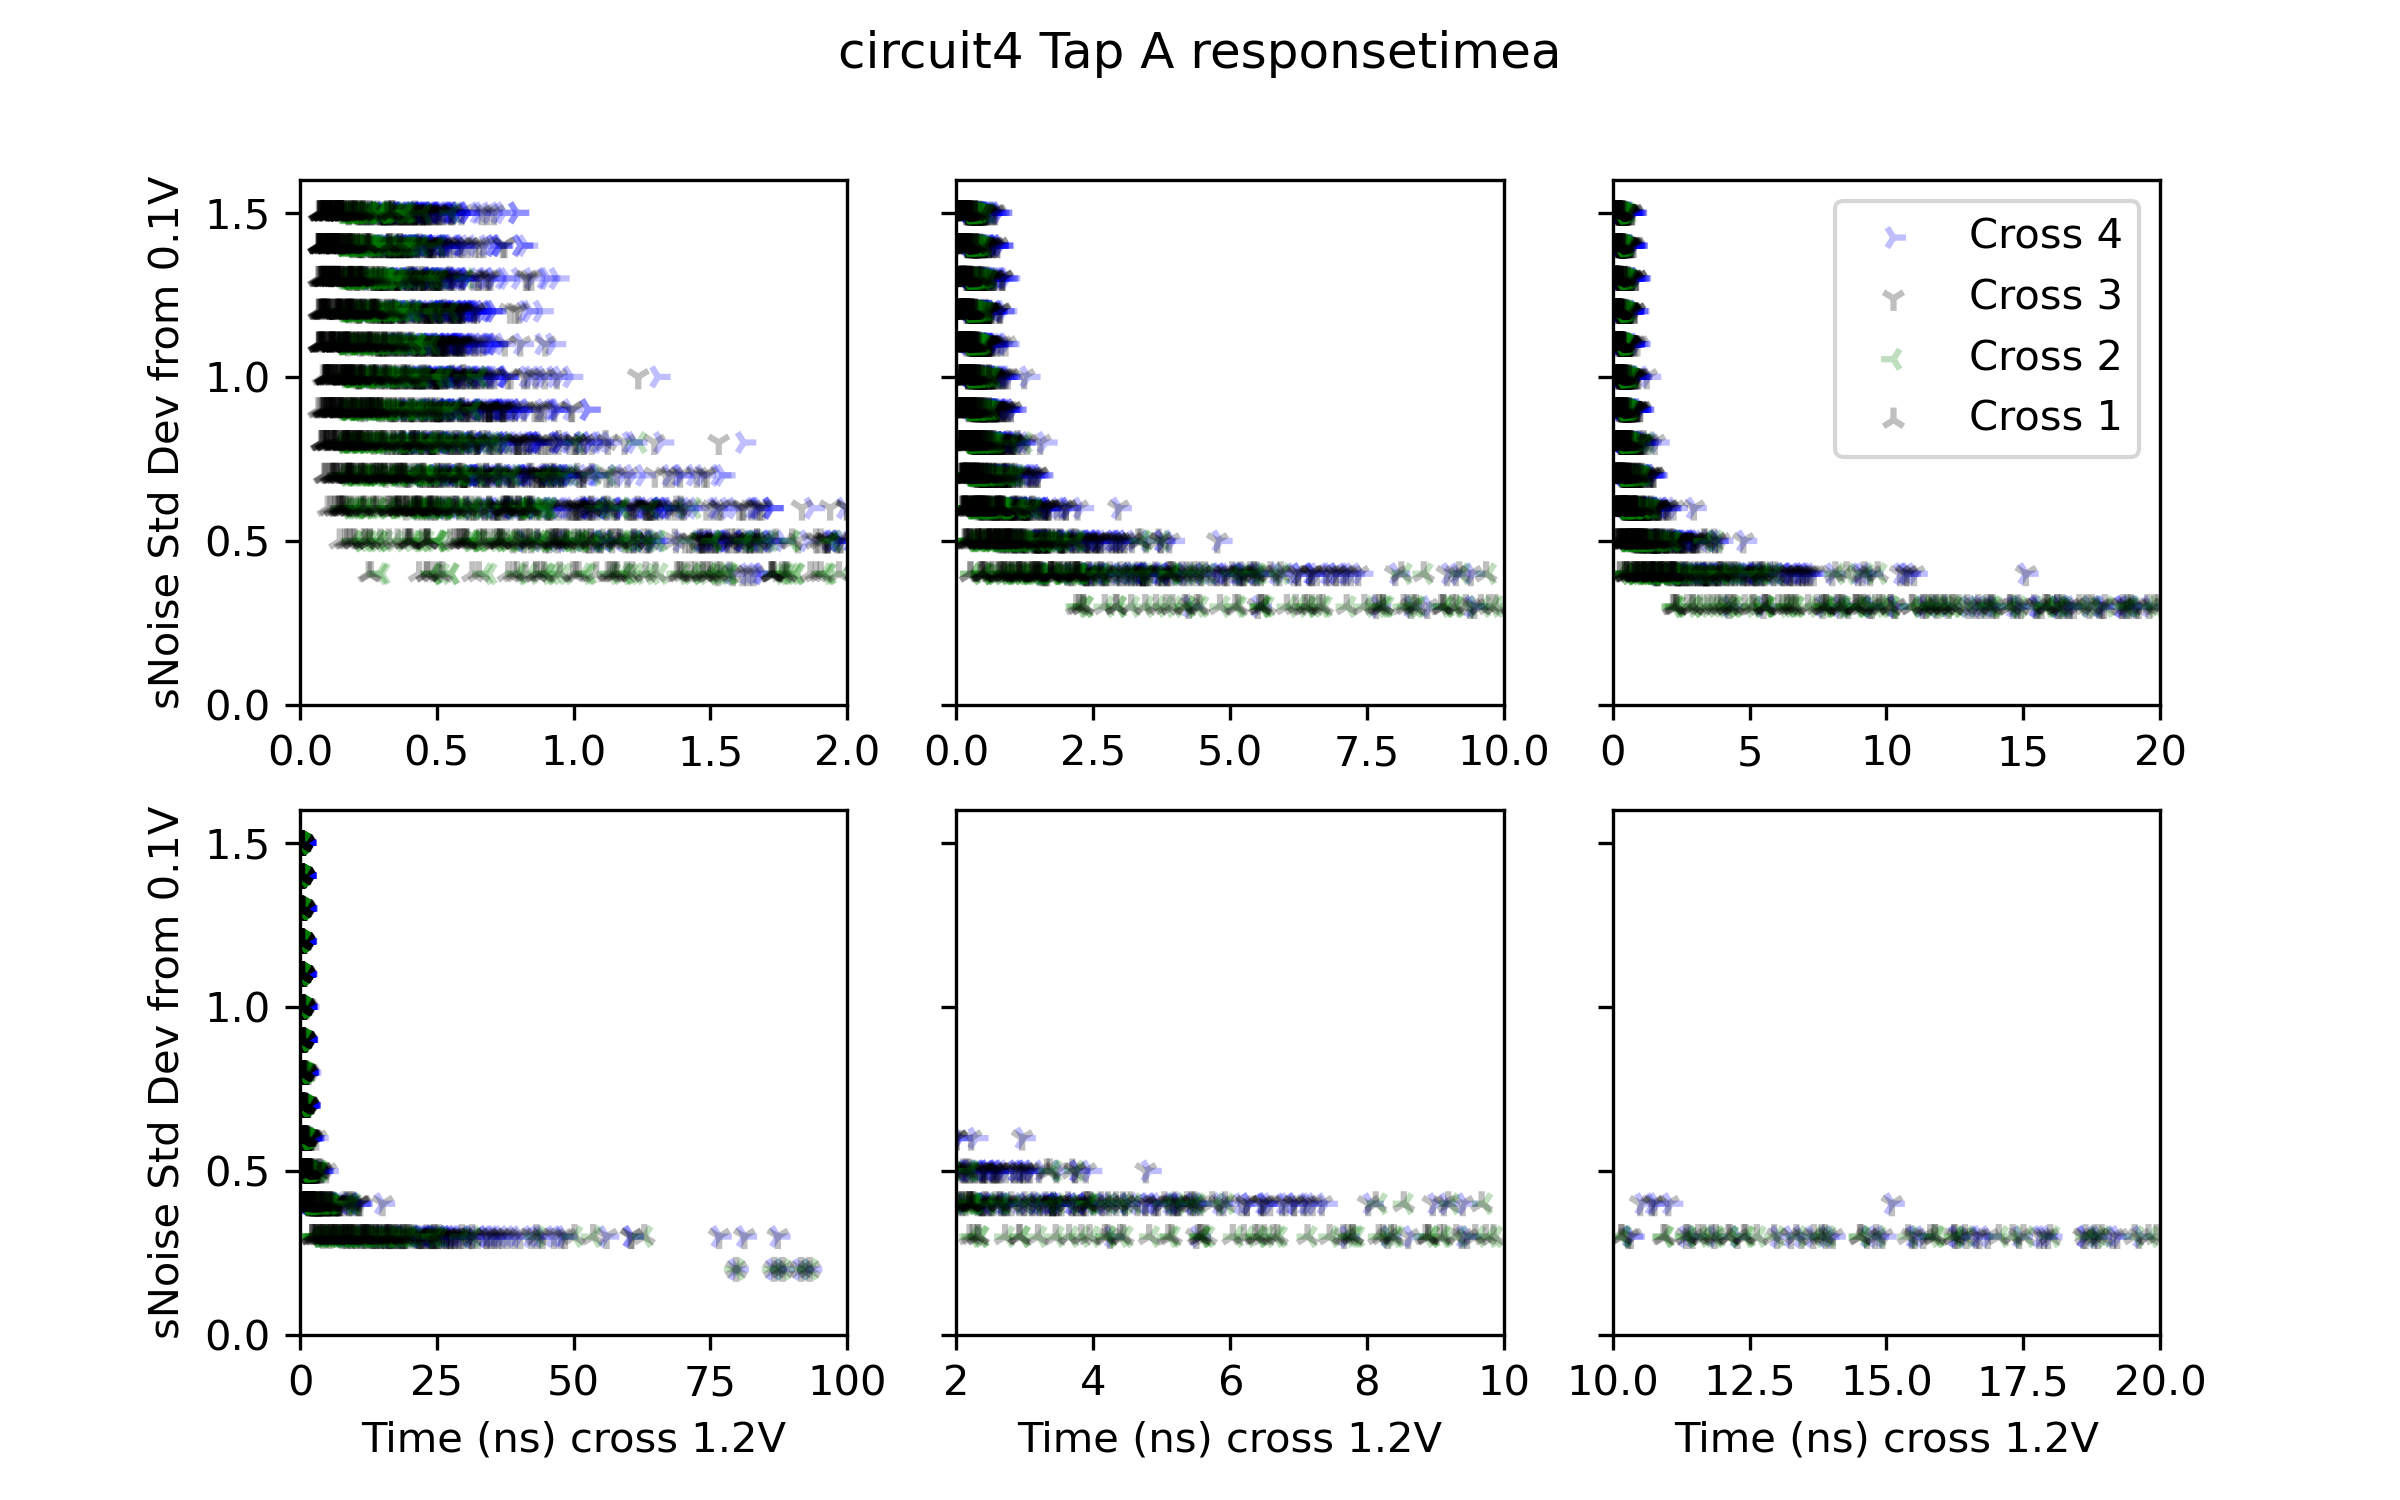
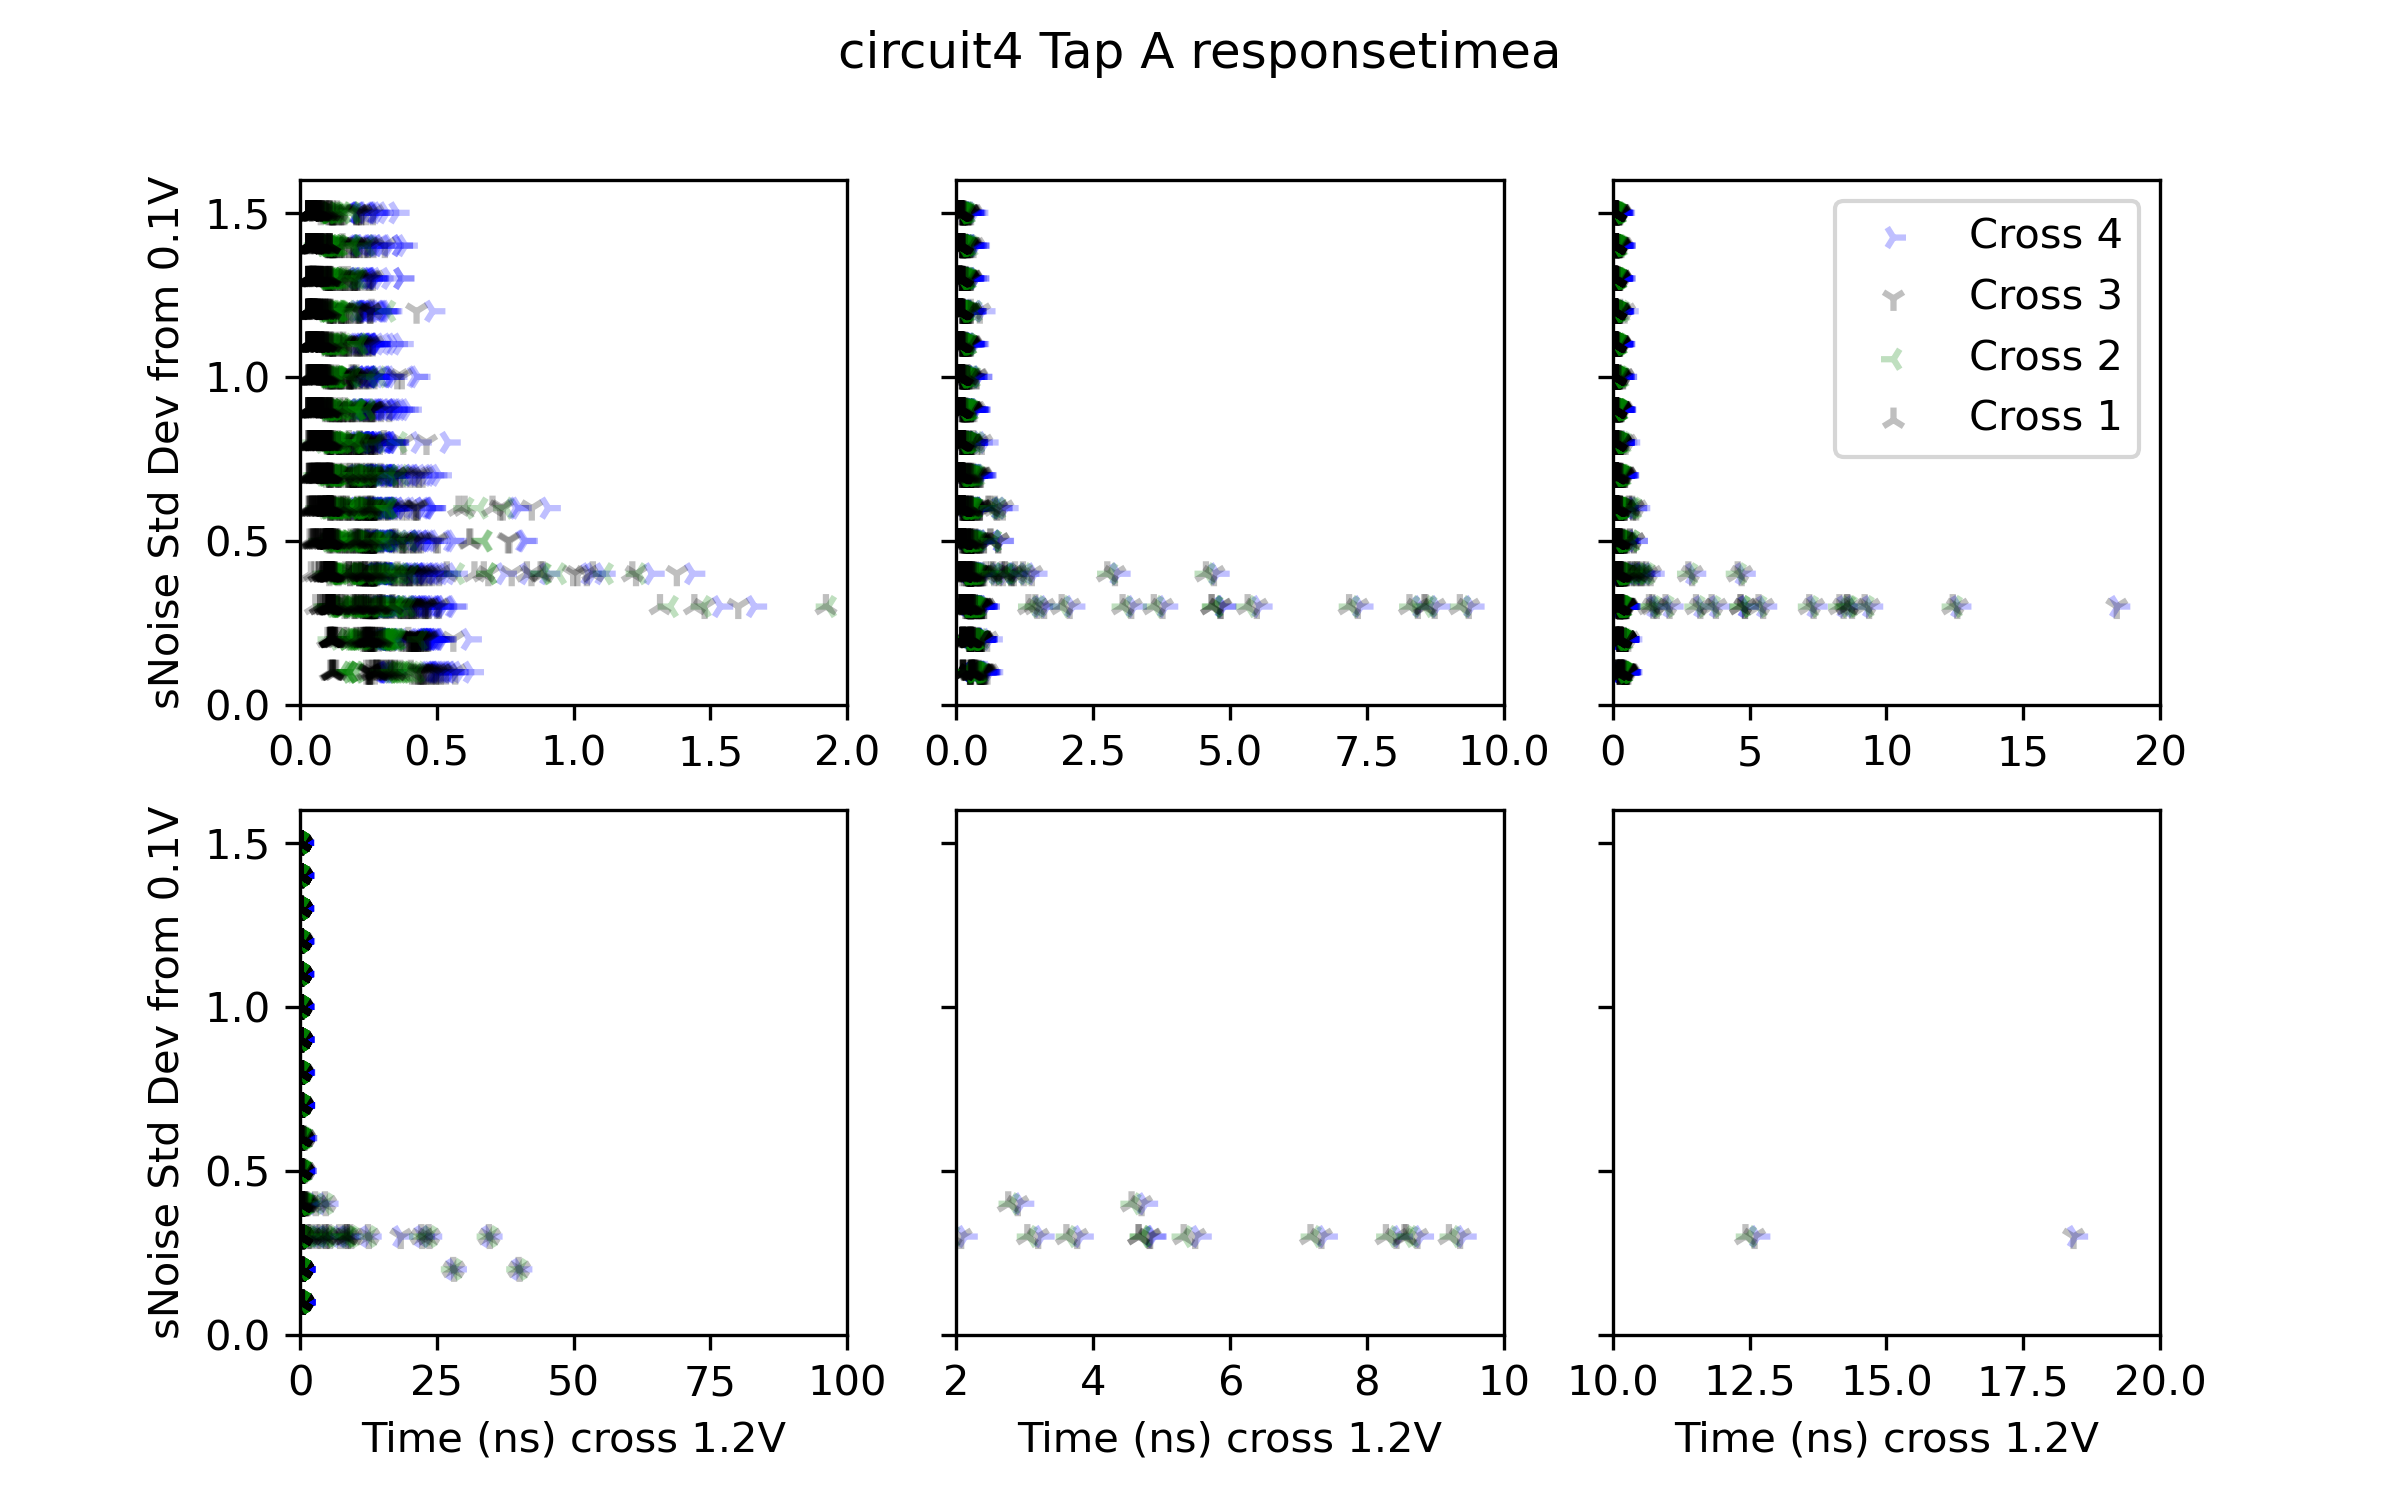
updated plots

diff --git a/exp_mixingTime/read_events_exp_mixing_time_avg_cross_all_circuits.py b/exp_mixingTime/read_events_exp_mixing_time_avg_cross_all_circuits.py
@@ -12,7 +12,7 @@ responseb_cir_labels = ['responsetimeb','responsetimeb','responsetimeb','respons
 #responseb_cir_label = "responsetimeupb"  # Remember for circuit9, the crossing is measured here
 crosses = ['Cross 1', 'Cross 2', 'Cross 3', 'Cross 4']
 crossesMarker = ["2", "3", "1", "4"]
-clab = ['black', 'green', 'black', 'blue']#['black','blue','gray','red']
+clab = ['black', 'green', 'black', 'blue']#['black','blue','gray','red'] 
 
 circuit_marker = ["|","d","x","+","h","^","*","."]
 #circuit_marker = ['$2$','$3$','$4$','$5','$6$','$7$','$8$','$9$']

diff --git a/exp_mixingTime/read_events_exp_mixing_time.py b/exp_mixingTime/read_events_exp_mixing_time.py
@@ -3,7 +3,7 @@ import numpy as np
 import statistics
 import matplotlib.pyplot as plt
 
-paths = ['circuit8/']
+paths = ['circuit6/']
 responsea_cir_label = "responsetimea"  # , circuits 2 - 8
 #responsea_cir_label = "responsetimeupa" # Remember for circuit9 the cross is measured here
 responseb_cir_label = "responsetimeb"  # circuits 2 - 8
